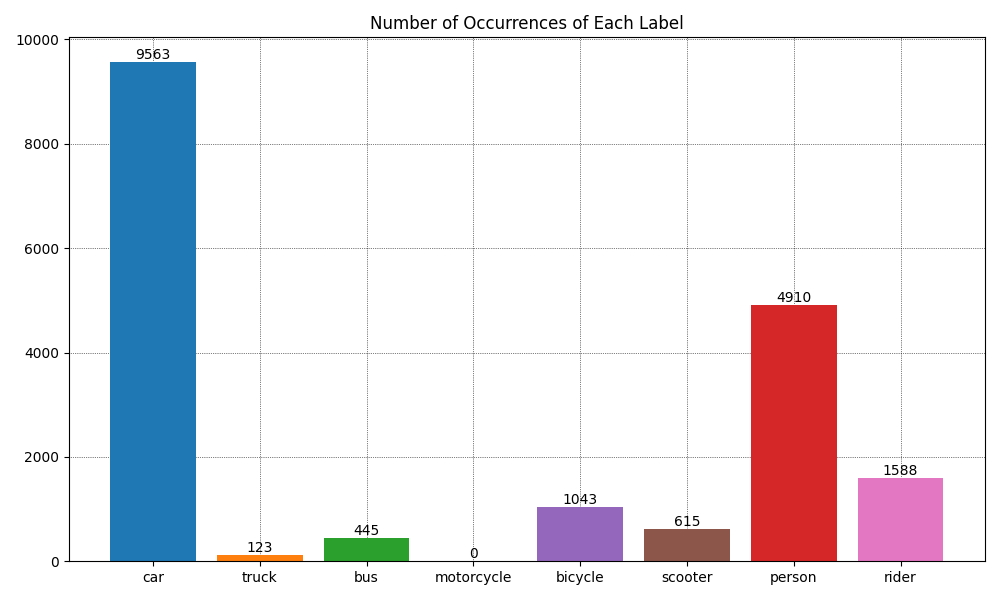
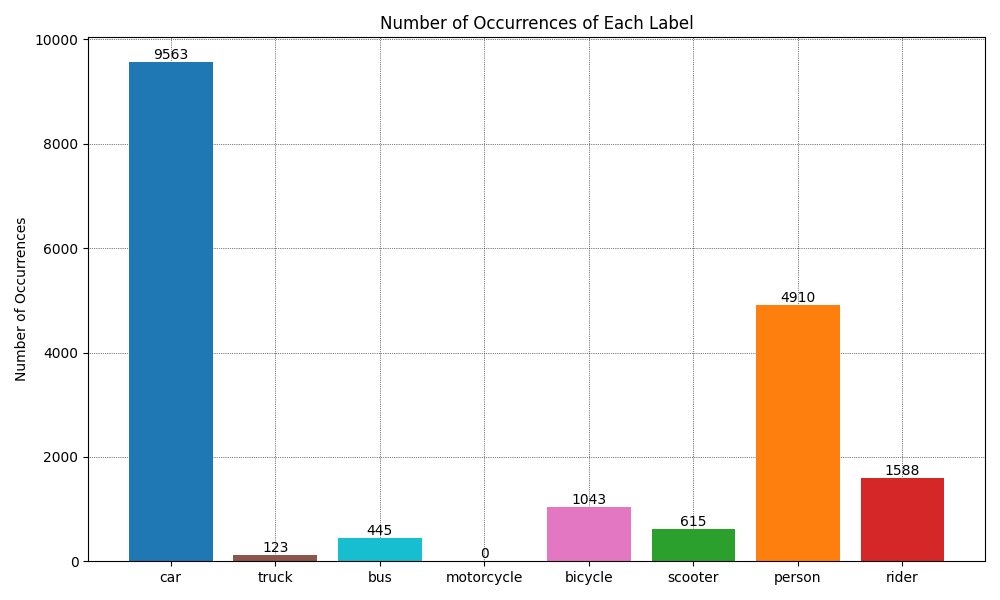
Updating Plots

diff --git a/Project/src/dataset_exploration.py b/Project/src/dataset_exploration.py
@@ -1,15 +1,20 @@
 import matplotlib
 import matplotlib.pyplot as plt
 import os
-from tqdm import tqdm
 from collections import OrderedDict
 import pathlib
 
 from tops.config import instantiate, LazyConfig
 from ssd.utils import batch_collate, batch_collate_val
 import tops
-from configs.utils import get_output_dir
 
+
+def verify_dir(dir_path: str):
+    if not os.path.exists(dir_path):
+        os.makedirs(dir_path)
+
+
+plot_output_dir = pathlib.Path("../plots/dataset_exploration/")
 
 matplotlib.rcParams.update(
     {
@@ -18,6 +23,7 @@ matplotlib.rcParams.update(
         "grid.color": "k",
         "grid.linestyle": ":",
         "grid.linewidth": 0.5,
+        "figure.figsize": (10, 6),
     }
 )
 
@@ -40,116 +46,111 @@ def analyze_dataloader(config, dataset_name) -> OrderedDict:
     dataloader = get_dataloader(config, dataset_name)
 
     label_results = OrderedDict()
-    for i in list(config.label_map.keys())[1:]:
-        label_results[i] = {
+    for label in list(config.label_map.keys())[1:]:
+        label_results[label] = {
+            "name": config.label_map[label],
             "occurrences": 0,
             "widths": [],
             "heights": [],
-            "aspectRatios": [],
-            "name": config.label_map[i],
+            "aspect_ratios": [],
         }
 
-    for batch in tops.misc.progress_bar(
-        dataloader, f"Analyzing Dataset: {dataset_name}"
-    ):
+    for batch in tops.misc.progress_bar(dataloader, f"'{dataset_name}'\t"):
         # Batch Contains:
         #   'image'     - image data
         #   'image_id'  - id of image (number)
         #   'width'     - width of image
         #   'height'    - height of image
-        #   'labels'    - labels for the current image
+        #   'labels'    - labels in the current image
         #   'boxes'     - boxes corresponsing to the labels
         image_width = float(batch["width"])
         image_height = float(batch["height"])
 
         for image_labels, image_boxes in zip(batch["labels"], batch["boxes"]):
             for label, box in zip(image_labels, image_boxes):
-                i = int(label)
+                label = int(label)
 
-                # Calculating values
                 x_min, y_min, x_max, y_max = box
-                width = float((x_max - x_min) * image_width)
-                height = float((y_max - y_min) * image_height)
+                width = float(x_max - x_min) * image_width
+                height = float(y_max - y_min) * image_height
                 aspectRatio = width / height
 
-                label_results[i]["occurrences"] += 1
-                label_results[i]["widths"].append(width)
-                label_results[i]["heights"].append(height)
-                label_results[i]["aspectRatios"].append(aspectRatio)
+                label_results[label]["occurrences"] += 1
+                label_results[label]["widths"].append(width)
+                label_results[label]["heights"].append(height)
+                label_results[label]["aspect_ratios"].append(aspectRatio)
 
     return label_results
 
 
-def verify_dir(dir_path: str):
-    if not os.path.exists(dir_path):
-        os.makedirs(dir_path)
+def plot_results(data: dict, output_dir: str = None):
+    if output_dir is None:
+        output_dir = plot_output_dir
+    else:
+        output_dir = os.path.join(plot_output_dir, output_dir)
+    verify_dir(output_dir)
 
-
-def plot_results(data: dict, output_dir: str):
-
-    figsize = (10, 6)
+    # want to make sure the same color is used for the same label in all plots
     colors = [
-        "#1f77b4",  # car
-        "#ff7f0e",  # truck
-        "#2ca02c",  # bus
-        "#7f7f7f",  # motorcycle
-        "#9467bd",  # bicycle
-        "#8c564b",  # scooter
-        "#d62728",  # person
-        "#e377c2",  # rider
+        "tab:blue",  # car
+        "tab:brown",  # truck
+        "tab:cyan",  # bus
+        "tab:gray",  # motorcycle
+        "tab:pink",  # bicycle
+        "tab:green",  # scooter
+        "tab:orange",  # person
+        "tab:red",  # rider
     ]
+    labels = [data[i]["name"] for i in data.keys()]
 
     # Occurrences
-    verify_dir(output_dir)
-    plt.figure(figsize=figsize)
+    values = [data[i]["occurrences"] for i in data.keys()]
+    plt.figure()
+    plt.bar_label(plt.bar(labels, values, color=colors))
     plt.title("Number of Occurrences of Each Label")
-    for i in data.keys():
-        x = data[i]["name"]
-        y = data[i]["occurrences"]
-        bar = plt.bar(x, y, color=colors[i - 1])
-        plt.bar_label(bar)
+    plt.ylabel("Number of Occurrences")
     plt.tight_layout()
-    plt.savefig(os.path.join(output_dir, "occurrences.png"))
-
-    # Size
-    size_output_dir = os.path.join(output_dir, "sizes/")
-    verify_dir(size_output_dir)
-    for i in data.keys():
-        plt.figure(figsize=figsize)
-        name = data[i]["name"]
-        plt.title(f"Width and Height for Bounding Boxes (in pixels) for {name}")
-        widths = data[i]["widths"]
-        heights = data[i]["heights"]
-        plt.xlim((0, 400))
-        plt.ylim((0, 130))
-        plt.scatter(widths, heights, label=name, color=colors[i - 1])
-        plt.xlabel("Width")
-        plt.ylabel("Height")
-        plt.tight_layout()
-        plt.savefig(os.path.join(size_output_dir, f"{name}.png"))
+    plt.savefig(f"{output_dir}/occurrences.png")
+    plt.close()
 
     # Aspect Ratios
-    plt.figure(figsize=figsize)
+    values = [data[i]["aspect_ratios"] for i in data.keys()]
+    plt.figure()
+    plt.hist(values, stacked=True, bins=60, range=(0, 3), label=labels, color=colors)
     plt.title(f"Stacked Aspect Ratios for Bounding Boxes for all labels")
-    values = [data[i]["aspectRatios"] for i in data.keys()]
-    labels = [data[i]["name"] for i in data.keys()]
-    plt.hist(values, density=True, stacked=True, bins=50, label=labels, color=colors)
+    plt.xlabel("Aspect Ratio (width/height)")
+    plt.ylabel("Count (Stacked)")
     plt.legend(loc="upper right")
     plt.tight_layout()
-    plt.savefig(os.path.join(output_dir, "aspect-ratios.png"))
+    plt.savefig(f"{output_dir}/aspect-ratios.png")
+    plt.close()
+
+    # Size
+    for i in data.keys():
+        label = data[i]["name"]
+        widths = data[i]["widths"]
+        heights = data[i]["heights"]
+        plt.figure()
+        plt.scatter(widths, heights, label=label, color=colors[i - 1], marker=".")
+        plt.title(f"Width and Height for Bounding Boxes for '{label}'")
+        plt.xlim((0, 400))
+        plt.ylim((0, 130))
+        plt.xlabel("Width (pixels)")
+        plt.ylabel("Height (pixels)")
+        plt.tight_layout()
+        plt.savefig(f"{output_dir}/sizes-{label}.png")
+        plt.close()
 
 
 if __name__ == "__main__":
-    root = pathlib.Path("../plots/dataset_exploration/")
-
     config = LazyConfig.load("configs/baseline.py")
     config.train.batch_size = 1
     results = analyze_dataloader(config, "train")
-    plot_results(results, os.path.join(root, "train_tdt4265/"))
+    plot_results(results, "train_tdt4265")
     results = analyze_dataloader(config, "val")
-    plot_results(results, os.path.join(root, "val_tdt4265/"))
+    plot_results(results, "val_tdt4265")
 
     config = LazyConfig.load("configs/updated_dataset.py")
     config.train.batch_size = 1
     results = analyze_dataloader(config, "train")
-    plot_results(results, os.path.join(root, "train_tdt4265_extended/"))
+    plot_results(results, "train_tdt4265_extended")

diff --git a/Project/src/configs/utils.py b/Project/src/configs/utils.py
@@ -5,10 +5,8 @@ import pathlib
 def get_dataset_dir(dataset_relpath: str):
     server_dir = pathlib.Path("/work/datasets", dataset_relpath)
     if server_dir.is_dir():
-        print("Found dataset directory in:", server_dir)
         return str(server_dir)
     if server_dir.is_file():
-        print("Found dataset file in:", server_dir)
         return str(server_dir)
     return str(pathlib.Path("data", dataset_relpath))
 
